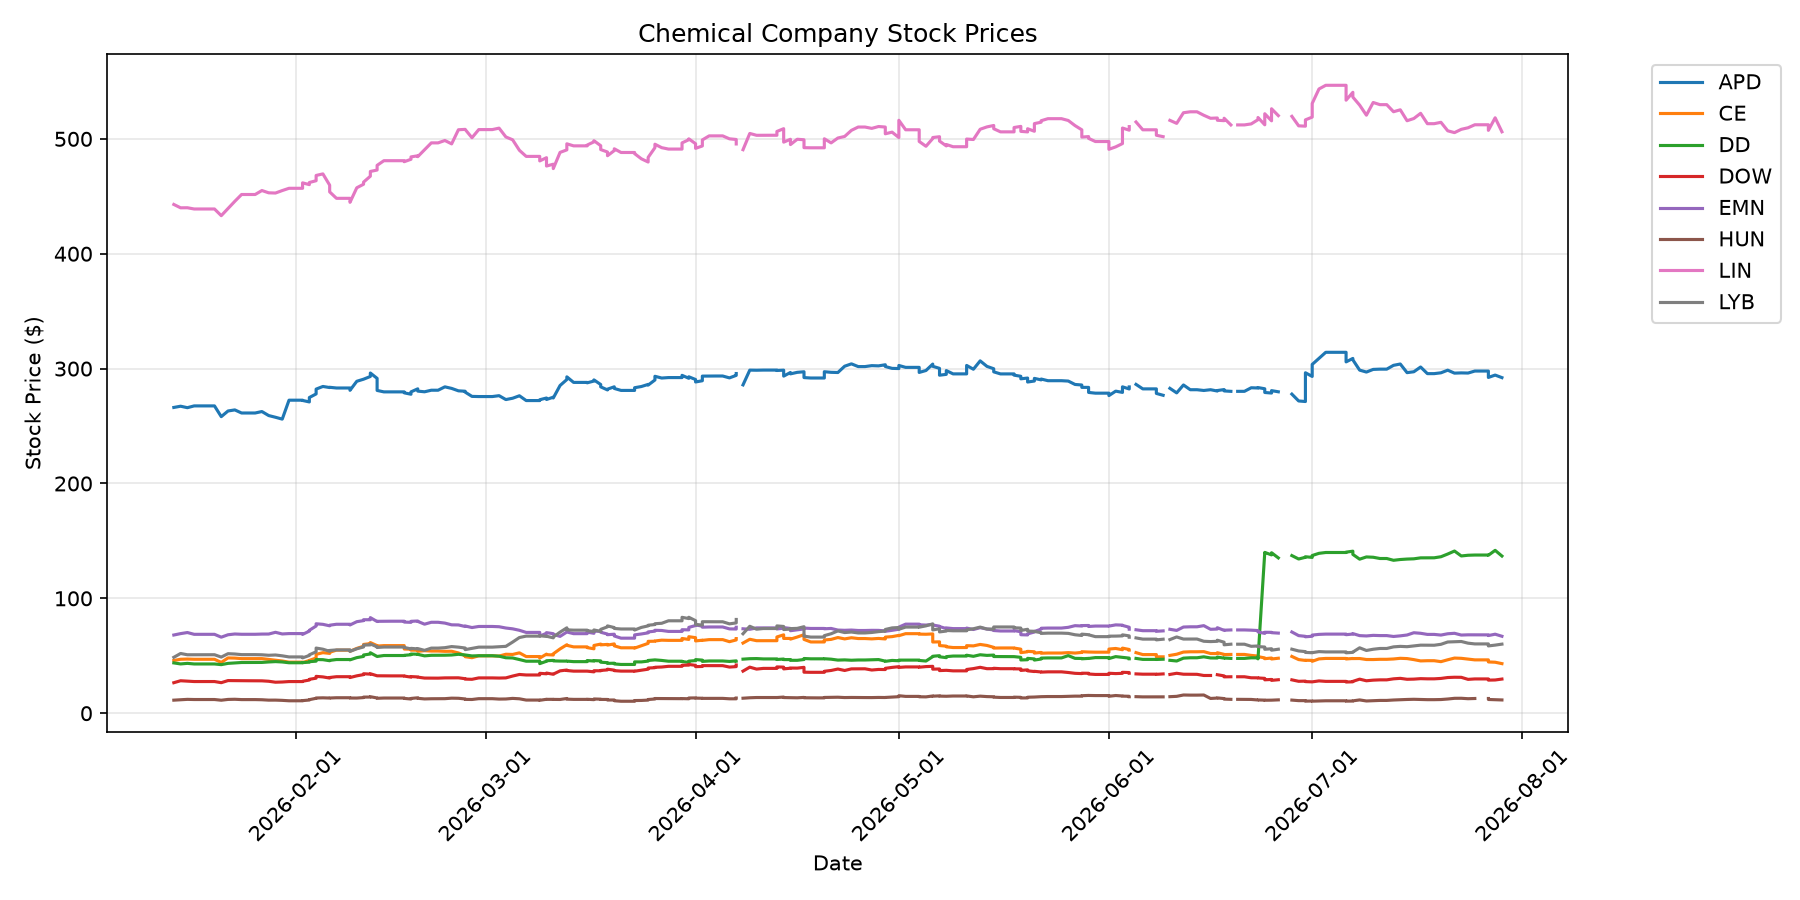
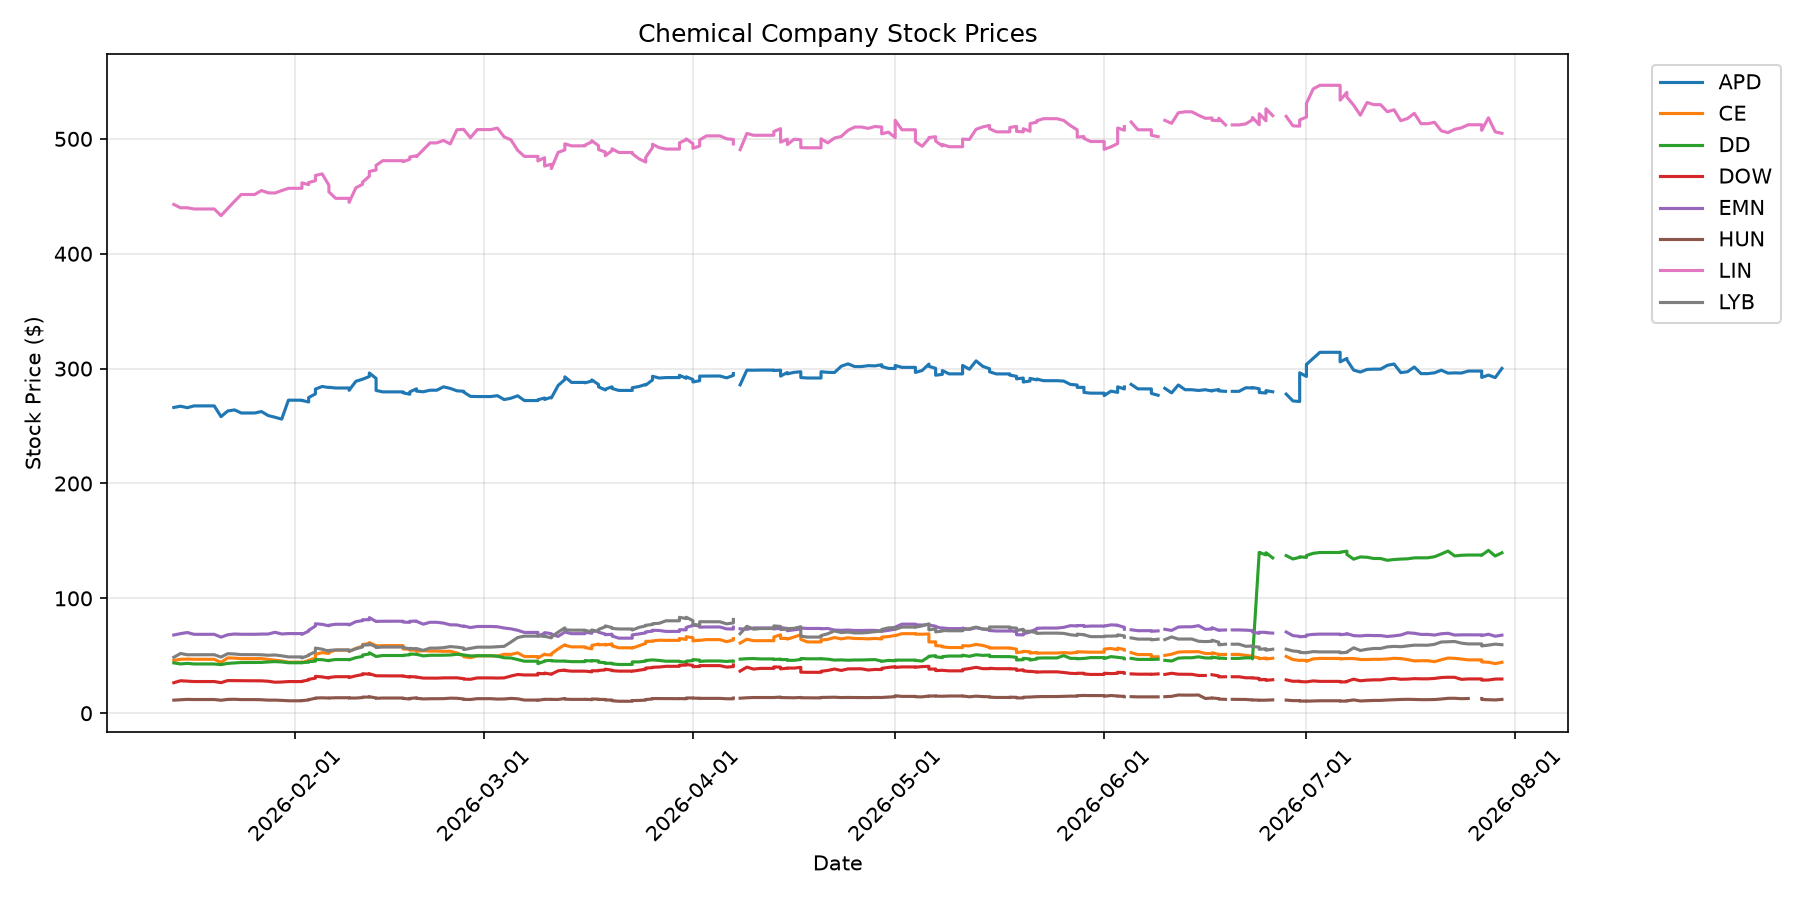
Daily price update: 2026-07-30

diff --git a/README.md b/README.md
@@ -2,29 +2,29 @@
 
 Automated daily tracking of chemical commodity prices and chemical company stocks.
 
-## Latest Prices (Updated: 2026-07-29)
+## Latest Prices (Updated: 2026-07-30)
 
 ### Energy Commodities
 
 | Commodity | Price | Change (24h) | Unit |
 |-----------|-------|--------------|------|
-| WTI Crude Oil | $84.55 | +5.29 (+6.67%) | $/barrel |
-| Brent Crude Oil | $90.11 | +6.02 (+7.16%) | $/barrel |
-| Natural Gas | $2.73 | +0.07 (+2.44%) | $/MMBtu |
-| Heating Oil | $4.20 | +0.05 (+1.19%) | $/gallon |
+| WTI Crude Oil | $84.40 | -0.06 (-0.07%) | $/barrel |
+| Brent Crude Oil | $89.78 | -0.96 (-1.06%) | $/barrel |
+| Natural Gas | $2.76 | +0.04 (+1.36%) | $/MMBtu |
+| Heating Oil | $4.15 | -0.22 (-5.04%) | $/gallon |
 
 ### Chemical Company Stocks
 
 | Company | Ticker | Price | Change (24h) |
 |---------|--------|-------|--------------|
-| Dow Inc. | DOW | $29.73 | +0.00 (+0.00%) |
-| LyondellBasell | LYB | $60.13 | +0.00 (+0.00%) |
-| DuPont | DD | $136.83 | +0.00 (+0.00%) |
-| Air Products | APD | $292.14 | +0.00 (+0.00%) |
-| Linde | LIN | $506.16 | +0.00 (+0.00%) |
-| Eastman Chemical | EMN | $66.99 | +0.00 (+0.00%) |
-| Celanese | CE | $43.16 | +0.00 (+0.00%) |
-| Huntsman | HUN | $11.54 | +0.00 (+0.00%) |
+| Dow Inc. | DOW | $29.76 | -0.69 (-2.27%) |
+| LyondellBasell | LYB | $59.62 | -0.87 (-1.44%) |
+| DuPont | DD | $139.67 | +1.57 (+1.14%) |
+| Air Products | APD | $300.16 | +5.89 (+2.00%) |
+| Linde | LIN | $504.81 | -6.36 (-1.24%) |
+| Eastman Chemical | EMN | $67.96 | +0.68 (+1.02%) |
+| Celanese | CE | $44.33 | +0.40 (+0.91%) |
+| Huntsman | HUN | $12.02 | +0.06 (+0.46%) |
 
 ## Data Sources
 

diff --git a/logs/update_log.md b/logs/update_log.md
@@ -313,3 +313,4 @@ Daily updates to the chemical engineering data repository.
 - **2026-07-27 16:07:11**: Updated 4 energy prices, 8 stocks, 0 FRED series
 - **2026-07-28 15:57:37**: Updated 4 energy prices, 8 stocks, 0 FRED series
 - **2026-07-29 15:43:26**: Updated 4 energy prices, 8 stocks, 0 FRED series
+- **2026-07-30 15:44:32**: Updated 4 energy prices, 8 stocks, 0 FRED series
